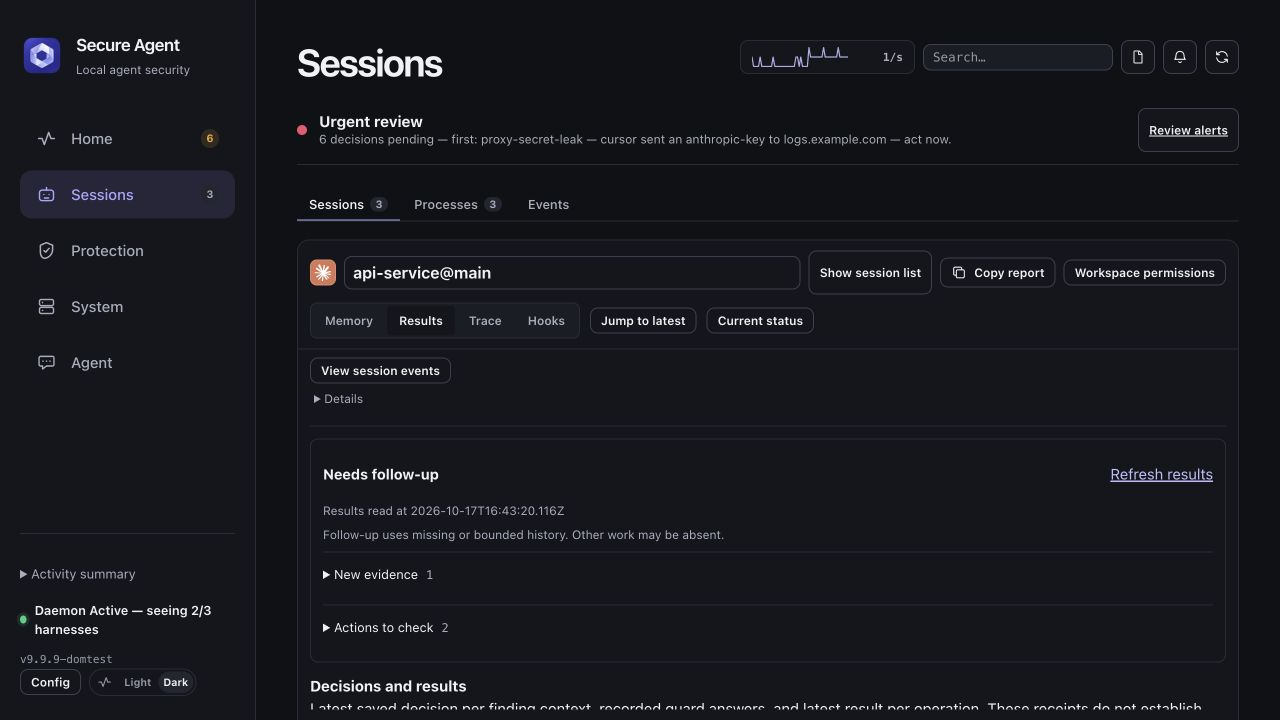
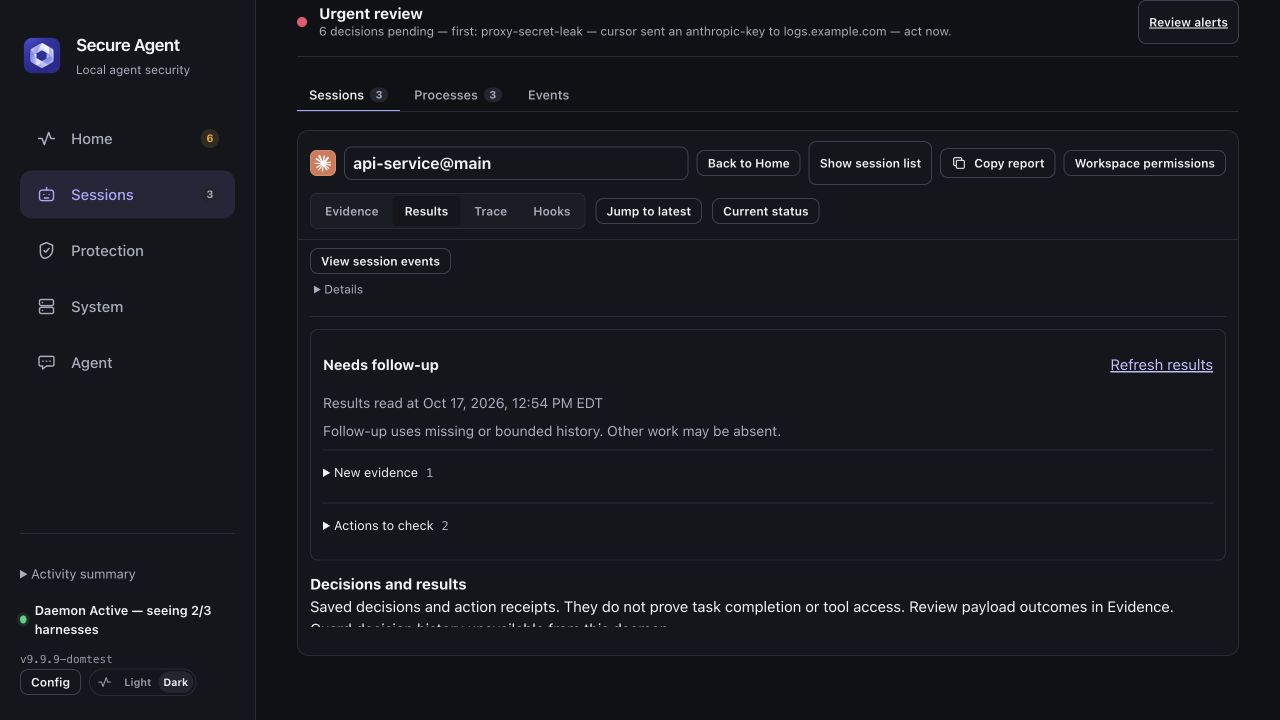
feat: clarify evidence and policy effects

diff --git a/daemon/internal/api/web_dist/session-workbench.js b/daemon/internal/api/web_dist/session-workbench.js
@@ -830,7 +830,7 @@ function sessionFollowUpHTML(data, state = {}) {
   const permissionRows = sessionOutcomePermissionLinks(data).map(link => {
     const rows = link.ids.map(id => {
       const r = records?.get(id);
-      return r ? `<li><strong>${escapeHTML(decisionScopeApplicability(r).label)}</strong> · <code>${escapeHTML(r.resource_path)}</code>${r.expires_at ? `<p>Expires ${escapeHTML(r.expires_at)}</p>` : ''}${r.revoked_at ? `<p>Revoked ${escapeHTML(r.revoked_at)}</p>` : ''}</li>` : '<li>Current status unknown. The record is missing or unavailable; expiry or revocation cannot be established.</li>';
+      return r ? `<li><strong>${escapeHTML(decisionScopeApplicability(r).label)}</strong> · <code>${escapeHTML(r.resource_path)}</code>${r.expires_at ? `<p>Expires ${localTimestampHTML(r.expires_at)}</p>` : ''}${r.revoked_at ? `<p>Revoked ${localTimestampHTML(r.revoked_at)}</p>` : ''}</li>` : '<li>Current status unknown. The record is missing or unavailable; expiry or revocation cannot be established.</li>';
     }).join('');
     const action = !state.error ? `<button type="button" class="link-btn" data-action="${link.kind === 'guard' ? 'session-guard-permissions' : 'session-permissions'}" ${link.kind === 'guard' ? 'data-id' : 'data-review'}="${escapeHTML(link.id)}" data-session="${escapeHTML(data.session_id)}">Inspect permissions</button>` : '';
     return `<li data-row-id="follow-up:permission:${link.kind}:${escapeHTML(link.id)}"><strong>${escapeHTML(link.title)}</strong><ul>${rows}</ul>${action}</li>`;
@@ -840,11 +840,11 @@ function sessionFollowUpHTML(data, state = {}) {
   const count = evidenceRows.length + actionRows.length + permissionRows.length;
   return `<section class="sd-follow-up" data-session-part="follow-up" aria-label="Session follow-up">
     <div class="sd-follow-up-head"><h4>Needs follow-up</h4><button type="button" class="link-btn" data-action="session-outcomes-retry"${state.loading ? ' disabled' : ''}>${state.loading ? 'Refreshing…' : 'Refresh results'}</button></div>
-    ${stale ? `<p role="status">${state.loading ? 'Refreshing follow-up' : 'Last known follow-up'}. Refresh must succeed before relying on these records.</p>` : data.observed_at ? `<p>Results read at ${escapeHTML(data.observed_at)}</p>` : ''}
+    ${stale ? `<p role="status">${state.loading ? 'Refreshing follow-up' : 'Last known follow-up'}. Refresh must succeed before relying on these records.</p>` : data.observed_at ? `<p>Results read at ${localTimestampHTML(data.observed_at)}</p>` : ''}
     ${partial ? '<p>Follow-up uses missing or bounded history. Other work may be absent.</p>' : ''}
     ${!count ? '<p>No follow-up identified in the loaded records. This is not a safety verdict.</p>' : ''}
     ${group('evidence', 'New evidence', evidenceRows)}${group('actions', 'Actions to check', actionRows)}${group('permissions', 'Permissions from decisions', permissionRows)}
-    ${permissionRows.length ? `<p>${permissions?.loading ? 'Loading permission status…' : records ? `Permissions read at ${escapeHTML(permissions.readAt)}. Applicability can change; inspect before relying on access.` : 'Permission status unavailable. Inspect permissions to retry the current scope and expiry.'}</p>` : ''}
+    ${permissionRows.length ? `<p>${permissions?.loading ? 'Loading permission status…' : records ? `Permissions read at ${localTimestampHTML(permissions.readAt)}. Applicability can change; inspect before relying on access.` : 'Permission status unavailable. Inspect permissions to retry the current scope and expiry.'}</p>` : ''}
   </section>`;
 }
 
@@ -853,7 +853,7 @@ function sessionOutcomesHTML(data, state) {
   const retry = '<button type="button" class="link-btn" data-action="session-outcomes-retry">Retry results</button>';
   const notice = state.error ? `Last known results. Refresh failed; later decisions or observations may be missing. ${retry}`
     : !data ? state.loading ? 'Loading decisions and results…' : `Results unavailable. ${retry}` : '';
-  const head = `<header data-session-part="outcomes-head"><h4>Decisions and results</h4><p>Latest saved decision per finding context, recorded guard answers, and latest result per operation. These receipts do not establish task completion or prove tool access. Payload outcomes remain in Memory.</p>${notice ? `<p role="status">${notice}</p>` : ''}</header>`;
+  const head = `<header data-session-part="outcomes-head"><h4>Decisions and results</h4><p>Saved decisions and action receipts. They do not prove task completion or tool access. Review payload outcomes in Evidence.</p>${notice ? `<p role="status">${notice}</p>` : ''}</header>`;
   if (!data) return head;
   const h = data.history;
   const limits = [['reviews', 'Review decisions'], ['interventions', 'Process results'], ['incidents', 'Incident reports'], ['guards','Guard decisions']].map(([key, label]) => {
@@ -891,16 +891,14 @@ function sessionOutcomesHTML(data, state) {
   }
   rows.sort((a, b) => (Date.parse(a.at) || 0) - (Date.parse(b.at) || 0) || a.key.localeCompare(b.key));
   const history = rows.map(row => {
-    const date = new Date(row.at);
-    const time = Number.isNaN(date.getTime()) ? 'Time unavailable' : date.toLocaleString();
-    return `<article class="sd-outcome" data-session-part="${escapeHTML(row.key)}" data-row-id="${escapeHTML(row.key)}"><h5>${escapeHTML(row.title)}</h5><time datetime="${escapeHTML(row.at || '')}">${escapeHTML(time)}</time>${row.html}</article>`;
+    return `<article class="sd-outcome" data-session-part="${escapeHTML(row.key)}" data-row-id="${escapeHTML(row.key)}"><h5>${escapeHTML(row.title)}</h5>${localTimestampHTML(row.at)}${row.html}</article>`;
   }).join('');
   return sessionFollowUpHTML(data, state) + head + `<div data-session-part="outcomes-limits">${limits}${Object.values(h.evidence).some(source => !source.available) ? retry : ''}${!rows.length && !limits ? '<p>No saved decisions or results in the retained history. This is not a safety verdict.</p>' : ''}</div>` + history;
 }
 
 function sessionDetailHTML(sess, events, trees, state = window.SA) {
   if (!sess) {
-    return `<div class="empty"><svg class="icon"><use href="#i-agent"/></svg><span>Select a session to see its memory</span></div>`;
+    return `<div class="empty"><svg class="icon"><use href="#i-agent"/></svg><span>Select a session to inspect its evidence</span></div>`;
   }
   const tree = liveTreeFor(sess, trees);
   const title = sessionTitle(sess, tree && tree.root.cwd);
@@ -935,7 +933,7 @@ function sessionDetailHTML(sess, events, trees, state = window.SA) {
     </div>
     <div class="sd-detail-controls">
       <div class="sd-view-switch" role="group" aria-label="Session detail view">
-        <button type="button" class="sd-view${state.sessionView === 'memory' ? ' active' : ''}" data-action="session-view" data-view="memory" aria-pressed="${state.sessionView === 'memory'}">Memory</button>
+        <button type="button" class="sd-view${state.sessionView === 'memory' ? ' active' : ''}" data-action="session-view" data-view="memory" aria-pressed="${state.sessionView === 'memory'}">Evidence</button>
         <button type="button" class="sd-view${state.sessionView === 'results' ? ' active' : ''}" data-action="session-view" data-view="results" aria-pressed="${state.sessionView === 'results'}">Results</button>
         <button type="button" class="sd-view${state.sessionView === 'trace' ? ' active' : ''}" data-action="session-view" data-view="trace" aria-pressed="${state.sessionView === 'trace'}">Trace</button>
         <button type="button" class="sd-view${state.sessionView === 'hooks' ? ' active' : ''}" data-action="session-view" data-view="hooks" aria-pressed="${state.sessionView === 'hooks'}">Hooks</button>

diff --git a/daemon/internal/api/web_dist/lib.js b/daemon/internal/api/web_dist/lib.js
@@ -87,6 +87,17 @@ function fmtTime(d) {
   return `${p(d.getHours())}:${p(d.getMinutes())}:${p(d.getSeconds())}`;
 }
 
+// Absolute record times include the user's timezone; the recorded value stays
+// available to assistive technology and in the tooltip.
+function localTimestampHTML(value) {
+  if ((typeof value !== 'string' && typeof value !== 'number') || (typeof value === 'string' && !value.trim())) return 'Time unavailable';
+  const date = new Date(value);
+  if (!Number.isFinite(date.getTime())) return 'Time unavailable';
+  const recorded = typeof value === 'string' ? value : date.toISOString();
+  const label = date.toLocaleString(undefined, {year:'numeric',month:'short',day:'numeric',hour:'numeric',minute:'2-digit',timeZoneName:'short'});
+  return `<time datetime="${escapeHTML(recorded)}" title="${escapeHTML(recorded)}">${escapeHTML(label)}</time>`;
+}
+
 // fmtDayClock: deterministic local "Fri 3:10 PM", built by hand like
 // fmtTime.
 function fmtDayClock(d) {
@@ -2186,15 +2197,15 @@ function policyListHTML(kind, rows, st) {
   const removal = kind === 'expected' && s.expectedRemoval;
   const saved = removal ? `<p role="status">Exception removal saved for <code>${escapeHTML(removal.path)}</code> (${escapeHTML(removal.agent)}). Remaining exceptions and policies still apply; past activity is unchanged.</p>` : '';
   const label = s.label || { guard: 'Guard decisions', path: 'File exceptions', mute: 'Muted flag classes', expected: 'Expected secret reads', scope: 'Scoped permissions' }[kind];
-  const refreshed = rows != null && Number.isFinite(s.lastSuccessAt) ? ' Last successful refresh: ' + new Date(s.lastSuccessAt).toLocaleString() + '.' : '';
-  const notice = s.hideNotice ? '' : saved + (s.error ? `<div class="policy-read-status" role="status"><p>${escapeHTML(label)}: ${rows != null ? 'Refresh failed. Showing last known records; current status is unavailable.' : 'Unavailable. No successful read yet.'}${escapeHTML(refreshed)} ${escapeHTML(s.error)}</p><button type="button" class="btn btn-ghost btn-sm" data-action="policy-refresh-report" data-kind="${escapeHTML(kind)}"${s.loading ? ' disabled' : ''}>${escapeHTML('Refresh ' + label.toLowerCase())}</button></div>`
+  const refreshed = rows != null && Number.isFinite(s.lastSuccessAt) ? ' Last successful refresh: ' + localTimestampHTML(s.lastSuccessAt) + '.' : '';
+  const notice = s.hideNotice ? '' : saved + (s.error ? `<div class="policy-read-status" role="status"><p>${escapeHTML(label)}: ${rows != null ? 'Refresh failed. Showing last known records; current status is unavailable.' : 'Unavailable. No successful read yet.'}${refreshed} ${escapeHTML(s.error)}</p><button type="button" class="btn btn-ghost btn-sm" data-action="policy-refresh-report" data-kind="${escapeHTML(kind)}"${s.loading ? ' disabled' : ''}>${escapeHTML('Refresh ' + label.toLowerCase())}</button></div>`
     : s.loading && rows != null ? `<p class="policy-read-status" role="status">${escapeHTML('Refreshing ' + label.toLowerCase() + '…')}</p>` : '');
   if (!rows) {
     if (s.error) return notice;
     return `<div class="loading">Loading…</div>`;
   }
   const EMPTY = {
-    guard: 'No guard decisions yet. Answering a guard prompt with Always allow or Always deny stores one here.',
+    guard: 'No legacy guard decisions. Session and timed permissions are listed above.',
     path: 'No file exceptions yet. Always allow this file, on a finding, adds one here.',
     mute: 'No muted flag classes. Stop flagging this, on a finding, adds one here.',
     expected: 'No expected secret reads. Expected, on a read-then-connect finding, adds one here.',
@@ -2203,23 +2214,21 @@ function policyListHTML(kind, rows, st) {
   if (!rows.length) return notice + (s.error ? '' : `<div class="empty"><span>${EMPTY[kind]}</span></div>`);
   const row = (main, sub, meta) => `<div class="policy-row"><div class="policy-row-main">${main}</div>`
     + `<div class="policy-row-sub">${sub}</div>${meta ? `<span class="policy-row-meta">${meta}</span>` : ''}</div>`;
-  const when = r => r.created_at ? escapeHTML(String(r.created_at).slice(0, 10)) : '';
+  const when = r => r.created_at ? localTimestampHTML(r.created_at) : '';
   const items = rows.map(r => {
     if (kind === 'scope') {
       const applicability = decisionScopeApplicability(r), mutation = s.scopeMutations?.get(r.id);
-      const timestamp = value => Number.isFinite(Date.parse(value))
-        ? `<time datetime="${escapeHTML(value)}" title="${escapeHTML(value)}">${escapeHTML(new Date(value).toLocaleString(undefined,{year:'numeric',month:'short',day:'numeric',hour:'numeric',minute:'2-digit',timeZoneName:'short'}))}</time>` : 'Time unavailable';
       const saved = mutation?.status === 'saved', unconfirmed = mutation?.status === 'unconfirmed';
       const pending = mutation?.status === 'confirming' || mutation?.status === 'saving';
       const lifetime = saved ? 'Revoked' : applicability.label;
-      const duration = r.expires_at ? ` · Expires ${timestamp(r.expires_at)}` : r.kind === 'session' && r.session_id ? ` · Session ${escapeHTML(r.session_id)}` : '';
+      const duration = r.expires_at ? ` · Expires ${localTimestampHTML(r.expires_at)}` : r.kind === 'session' && r.session_id ? ` · Session ${escapeHTML(r.session_id)}` : '';
       const feedback = saved ? '<p role="status">Revocation saved. Other permissions may still apply; past access is unchanged.</p>'
         : unconfirmed ? '<p role="status">Revocation not confirmed. Refresh permissions before trying again.</p><button type="button" class="link-btn" data-action="policy-refresh">Refresh permissions</button>'
         : mutation?.status === 'saving' ? '<p role="status">Saving revocation…</p>' : '';
       const recipient = r.destination ? ` → ${r.destination}` : '';
       const operation = r.operation.startsWith('guard:') ? 'Guarded ' + r.operation.slice(6) + ' access' : r.operation === 'read-connect' ? 'Expected read/connect activity' : 'Operation unavailable';
       return row(`<b>${escapeHTML(r.agent)}</b> · ${escapeHTML(operation)} <code>${escapeHTML(r.resource_path)}</code>${escapeHTML(recipient)}`,
-        `${escapeHTML(r.workspace || 'Workspace not recorded')} · executable path ${escapeHTML(r.reader_exe || 'Unknown')} (observed, not signature verified) · ${escapeHTML(lifetime)}${duration}<br>Saved ${timestamp(r.created_at)} · Permission ${escapeHTML(r.id)}${feedback}`,
+        `${escapeHTML(r.workspace || 'Workspace not recorded')} · executable path ${escapeHTML(r.reader_exe || 'Unknown')} (observed, not signature verified) · ${escapeHTML(lifetime)}${duration}<br>Saved ${localTimestampHTML(r.created_at)} · Permission ${escapeHTML(r.id)}${feedback}`,
         `${r.session_id ? `<button type="button" class="btn btn-ghost btn-sm" data-action="permission-session" data-id="${escapeHTML(r.id)}">Inspect session</button>` : ''}${!applicability.revoke || saved || unconfirmed || s.error ? '' : `<button type="button" class="btn btn-ghost btn-sm" data-action="revoke-scope" data-id="${escapeHTML(r.id)}"${s.loading || pending ? ' disabled' : ''}>Revoke</button>`}`);
     }
     if (kind === 'guard') {

diff --git a/daemon/internal/api/web_dist/index.html b/daemon/internal/api/web_dist/index.html
@@ -628,6 +628,7 @@
               <span class="badge" id="badge-firewall-mode">monitor</span>
             </div>
             <p class="report-health" data-reports="snapshot|allowlist" role="status" hidden></p>
+            <p class="policy-effect">Monitor reports matches; Block stops matching inspected requests. Traffic outside inspection is not covered.</p>
             <div class="panel-body" id="firewall-container">
               <div class="empty"><svg class="icon"><use href="#i-shield"/></svg><span>No egress inspected yet — traffic is scanned as your agents run</span></div>
             </div>
@@ -635,16 +636,18 @@
           <section class="panel" id="expected-egress-panel">
             <div class="panel-head"><h2><svg class="icon"><use href="#i-globe"/></svg>Expected connections</h2><span class="badge" id="badge-expected-egress">0</span></div>
             <p class="report-health" data-reports="expected egress" role="status" hidden></p>
+            <p class="policy-effect">Classifies matching connections as expected. Does not route or inspect traffic, or grant file access.</p>
             <div class="panel-body" id="expected-egress-container"><div class="empty"><span>No expected connections saved</span></div></div>
           </section>
           <div class="grid protection-rule-grid">
             <div class="col">
               <section class="panel" id="policy-guard-panel">
                 <div class="panel-head">
-                  <h2><svg class="icon"><use href="#i-shield"/></svg>Guard decisions</h2>
+                  <h2><svg class="icon"><use href="#i-shield"/></svg>Legacy guard decisions</h2>
                   <span class="badge" id="badge-guard-rules">0</span>
                   <button type="button" class="btn btn-ghost btn-sm" data-action="policy-refresh" title="Reload the policy lists"><svg class="icon"><use href="#i-refresh"/></svg><span>Refresh</span></button>
                 </div>
+                <p class="policy-effect">Agent-wide allow or deny decisions for a rule, with no expiry. Session and timed permissions are listed above.</p>
                 <div class="panel-body" id="policy-guard-rules">
                   <div class="loading">Loading guard decisions…</div>
                 </div>
@@ -654,6 +657,7 @@
                   <h2><svg class="icon"><use href="#i-doc"/></svg>File exceptions</h2>
                   <span class="badge" id="badge-path-allows">0</span>
                 </div>
+                <p class="policy-effect">Approves matching guarded paths, including descendants. Independent hard-deny checks still apply.</p>
                 <div class="panel-body" id="policy-path-allows">
                   <div class="loading">Loading file exceptions…</div>
                 </div>
@@ -663,6 +667,7 @@
                   <h2><svg class="icon"><use href="#i-bell"/></svg>Muted flag classes</h2>
                   <span class="badge" id="badge-mutes">0</span>
                 </div>
+                <p class="policy-effect">Suppresses matching finding classes. Does not grant file or network access.</p>
                 <div class="panel-body" id="policy-mutes">
                   <div class="loading">Loading muted flag classes…</div>
                 </div>
@@ -672,6 +677,7 @@
                   <h2><svg class="icon"><use href="#i-key"/></svg>Expected secret reads</h2>
                   <span class="badge" id="badge-expected">0</span>
                 </div>
+                <p class="policy-effect">Changes how matching read/connect activity is classified. File guards and payload rules remain separate.</p>
                 <div class="panel-body" id="policy-expected">
                   <div class="loading">Loading expected secret reads…</div>
                 </div>
@@ -684,6 +690,7 @@
                 </div>
                 <div class="panel-body">
                   <div class="notify-pop-sub">Default: only critical flags notify. Strongest rule first: a workspace scope beats a per-rule override, which beats the default. Applies to the menu bar app and this console.</div>
+                  <p class="policy-effect">Changes notifications. Monitoring and protection rules are unchanged.</p>
                   <p class="report-health" data-reports="notification rules" role="status" hidden></p>
                   <div id="notify-rules-list"></div>
                   <div class="notify-pop-head notify-scope-head">Per-workspace scopes</div>

diff --git a/daemon/internal/api/web_dist/policy-controller.js b/daemon/internal/api/web_dist/policy-controller.js
@@ -124,7 +124,7 @@ function workspacePermissionsHTML(records, filters, state) {
   const st = state || {}, workspace = filters.workspace || 'all', status = filters.status || 'all';
   if (!records) return policyListHTML('scope', records, {...st,label:'Saved permissions'});
   const review = workspacePermissionReview(records, workspace, status, st.scopeMutations);
-  const readAt = Number.isFinite(st.lastSuccessAt) ? new Date(st.lastSuccessAt).toLocaleString() : 'Unavailable';
+  const readAt = Number.isFinite(st.lastSuccessAt) ? localTimestampHTML(st.lastSuccessAt) : 'Unavailable';
   const health = st.error ? '<div class="policy-read-status" role="status"><p>Refresh failed. Showing last known records; current status is unavailable. Revocation is unavailable until a successful refresh.</p><button type="button" class="btn btn-ghost btn-sm" data-action="policy-refresh-report" data-kind="scope">Refresh saved permissions</button></div>'
     : st.loading ? '<p role="status">Refreshing saved permissions… Showing the last successful read.</p>' : '';
   const context = workspace === 'all' ? 'All recorded workspaces' : workspace === 'unassigned' ? 'Workspace not recorded' : workspace.slice(10);
@@ -133,7 +133,7 @@ function workspacePermissionsHTML(records, filters, state) {
     .map(r => `<p role="status">Revocation saved for <code>${escapeHTML(r.resource_path)}</code> (permission ${escapeHTML(r.id)}). Other permissions and policies may still apply.</p>`).join('') : '';
   const empty = st.error ? '<p>Matching records are unavailable for the current read.</p>'
     : `<div class="empty"><span>${records.length ? 'No saved permissions match this workspace and status.' : 'No saved permissions recorded in this read.'}${workspace !== 'all' || status !== 'all' ? ' <button type="button" class="link-btn" data-action="permission-filter-clear">Clear filters</button>' : ''}</span></div>`;
-  return `<div class="permission-read-context"><p><strong>${escapeHTML(context)}</strong> · ${review.rows.length} of ${records.length} saved records</p><p>Last successful read: ${escapeHTML(readAt)}</p>${health}${feedback}</div>`
+  return `<div class="permission-read-context"><p><strong>${escapeHTML(context)}</strong> · ${review.rows.length} of ${records.length} saved records</p><p>Last successful read: ${readAt}</p>${health}${feedback}</div>`
     + (review.groups.length ? review.groups.map(g => `<section class="permission-group" data-permission-status="${g.key}"><h3>${g.label}<span class="badge">${g.rows.length}</span></h3>${policyListHTML('scope',g.rows,{...st,hideNotice:true})}</section>`).join('')
       : empty);
 }

diff --git a/daemon/internal/api/web_dist/style.css b/daemon/internal/api/web_dist/style.css
@@ -1183,6 +1183,8 @@ html.recent-work-navigation { overflow-anchor: none; }
 
 /* Policy: read-only lists. */
 .policy-list { display: flex; flex-direction: column; }
+.policy-effect { margin: 12px 16px; color: var(--tx-2); font-size: .875rem; line-height: 1.55; }
+#notify-pop .policy-effect { margin: 12px 0; }
 .policy-read-status { border-left: 3px solid var(--line); padding: 8px 12px; margin: 0 0 12px; font-size: .8rem; overflow-wrap: anywhere; }
 .policy-read-status p { margin: 0 0 8px; }
 .policy-read-status button { min-height: 44px; white-space: normal; }
@@ -1834,6 +1836,8 @@ button.fact:hover { background: var(--bg-3); border-color: var(--brand); }
 .sd-metadata-body { display: flex; flex-wrap: wrap; align-items: center; gap: 6px 10px; padding: 6px 0 0; }
 .session-detail-body { flex: 1; min-height: 0; min-width: 0; overflow: auto; padding: 0 12px 12px; scrollbar-gutter: stable; overflow-anchor: none; }
 .session-memory { min-width: 0; }
+.session-detail-body .sm-content p, .session-detail-body .sd-outcome p,
+.session-detail-body .sd-follow-up p, .session-detail-body .sm-state { font-size: .875rem; line-height: 1.55; }
 .sd-outcome { padding: 12px 0; border-bottom: 1px solid var(--line); overflow-wrap: anywhere; }
 .sd-outcome h5 { margin: 0; font-size: 13px; }
 .sd-outcome time { font: 11px/1.4 var(--mono); color: var(--tx-2); }

diff --git a/daemon/internal/api/web_dist/decision-permissions.js b/daemon/internal/api/web_dist/decision-permissions.js
@@ -141,7 +141,7 @@ function sessionPermissionsHTML(receipt, state) {
     <p>${receipt.sessionID ? `Session ${escapeHTML(receipt.sessionID)}` : 'Session unavailable'} · ${receipt.kind === 'guard' ? 'Guard decision' : `decision for revision ${receipt.revision}`}<br>Recorded ${escapeHTML(receipt.at || 'time unavailable')}</p>
     <p>The daemon rechecks live session and identity before applying a saved scope. These records do not establish that a request is currently allowed.</p>
     <p>Other permissions and legacy policies may still allow matching access. Revocation does not undo past access.</p>
-    ${st.readAt ? `<p>Read at ${escapeHTML(st.readAt)}</p>` : ''}
+    ${st.readAt ? `<p>Read at ${localTimestampHTML(st.readAt)}</p>` : ''}
     <p role="status">${notice}${st.mutationError ? ' Revocation confirmation unavailable. Refresh before retrying.' : ''}${st.busy ? ' Revocation awaiting confirmation or save.' : ''}</p>${refresh}
   </header>`;
   return head + (st.rows || decisionPermissionRows(receipt, [])).map(row => {

diff --git a/packaging/test/console_dom/cases_policy.py b/packaging/test/console_dom/cases_policy.py
@@ -67,8 +67,8 @@ def run_policy_empty_lists_say_what_fills_them(page):
         'Policy empty lists say what fills them',
         (
             (
-                'No guard decisions yet.' in dom_query(dom_policyempty).text
-                or dom_query(dom_policyempty).has(None, {'title': lambda value: 'No guard decisions yet.' in (value or '')})
+                'No legacy guard decisions.' in dom_query(dom_policyempty).text
+                or dom_query(dom_policyempty).has(None, {'title': lambda value: 'No legacy guard decisions.' in (value or '')})
             )
             and (
                 'No file exceptions yet.' in dom_query(dom_policyempty).text

diff --git a/docs/PROTECTION.md b/docs/PROTECTION.md
@@ -82,7 +82,7 @@ When an agent tool call touches a guarded path (SSH keys, cloud credentials, the
 | Mode | Behavior |
 |---|---|
 | `monitor` (default) | The named path rule logs access without a prompt. Independent hard-deny checks still apply. |
-| `prompt` | The hook holds the tool call while the menu bar raises a native **Allow Once / Allow Always / Deny** prompt. Your answer is remembered per `(agent, rule)` — "Allow Always" is cached, so the same agent hitting the same rule again is resolved instantly with no further prompt. |
+| `prompt` | The hook holds the tool call for **Allow Once** or **Deny**. When recorded identity permits it, session and timed access choices require a separate confirmation of the file, tool, workspace, executable path and lifetime. **Inspect session** leaves the request unanswered while its timeout continues. |
 | `deny` | Blocked outright, no prompt. |
 
 **Quiet by default.** Every named path rule ships `monitor`. Independent hard-deny checks still block credential-printing and mutations to the guard or harness enforcement plane, even in monitor mode. The **Guard My Secrets** button under Optional capabilities is the explicit opt-in that promotes SSH keys, cloud credentials, the keychain, and harness configuration to `prompt`, written to `~/.config/secure-agent/guard-modes.json`.
@@ -110,3 +110,5 @@ secure-agent guard revoke claude ssh-keys
 ```
 
 Revocation forces a new decision for that cached agent/rule pair; it does not undo prior access. Per-project policies and prompt deadlines are documented in [Configuration](CONFIGURATION.md#directory_guard-map).
+
+In **Protection → Rules & permissions**, review session and timed records under **Saved permissions**. **Legacy guard decisions** lists older agent/rule-wide decisions without expiry. File exceptions, expected activity and notification settings have separate effects explained beside each list; revoking one record does not remove other matching policies.

diff --git a/docs/USAGE.md b/docs/USAGE.md
@@ -103,7 +103,7 @@ lost response, check Results and permissions before deciding again.
 
 **Return to the session after investigating.** Session evidence and resource drawers keep a session Back link. Findings history and resource Events preserve the originating view, reading position, and evidence filters through Back to session and browser Back/Forward. Clearing evidence filters retains the return path; changing sessions or credentials discards the old context.
 
-Finding and incident titles in session Memory open their retained evidence or report directly. Back returns to the same Memory view, reading position, and title. Missing sources are labeled unavailable; a retained summary does not reconstruct expired evidence.
+Finding and incident titles in the session's **Evidence** view open their retained evidence or report directly. Back returns to the same view, reading position, and title. Missing sources are labeled unavailable; a retained summary does not reconstruct expired evidence. **Results** shows saved decisions and action receipts; **Trace** shows recorded tool and model calls. On desktop, **Hide session list** gives the selected session more reading space; **Show session list** restores navigation without clearing filters.
 
 **Inspect recorded session activity.** View session events reads matching retained events for that session in pages of up to 200 records, including ended sessions without a live process family. Use the paging controls to inspect earlier records and return to a newer page. Event and time filters query retained records directly; changing filters starts a new page history. A failed page request retains the current page so you can retry the same control. The end of retained records does not establish complete coverage; older activity may have expired. Back restores the originating session view and event filters. See the [paged event API](API.md#paged-session-events).
 

diff --git a/README.md b/README.md
@@ -23,6 +23,8 @@ Screenshots use synthetic demonstration data.
 
 <img src="assets/screenshots/workspace-permissions-dark.png" alt="Saved permissions filtered to a workspace with lifetime, status, session inspection and individual revocation" width="1120">
 
+<img src="assets/screenshots/policy-effects-dark.png" alt="Policy lists explaining connection expectations, legacy guard decisions and notification effects" width="1120">
+
 <img src="assets/screenshots/native-access-request-dark.png" alt="Native access request with recorded identity, future access choices and Inspect session" width="340">
 
 <img src="assets/screenshots/home-recent-work-dark.png" alt="Home Recent work with active and ended sessions and direct Review results actions" width="1120">
